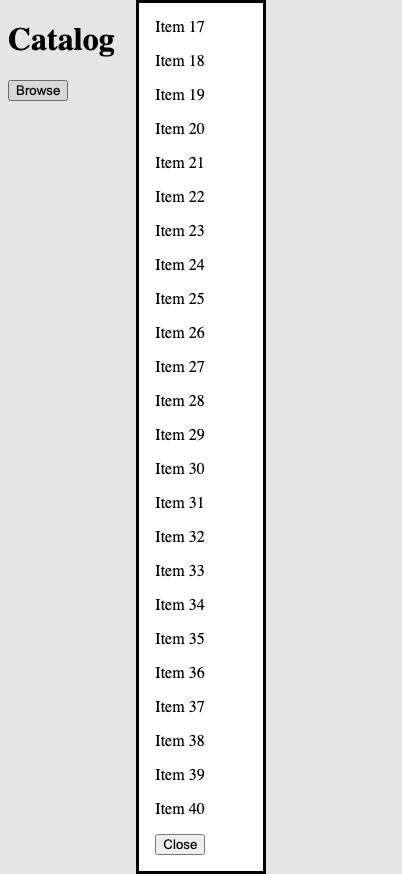
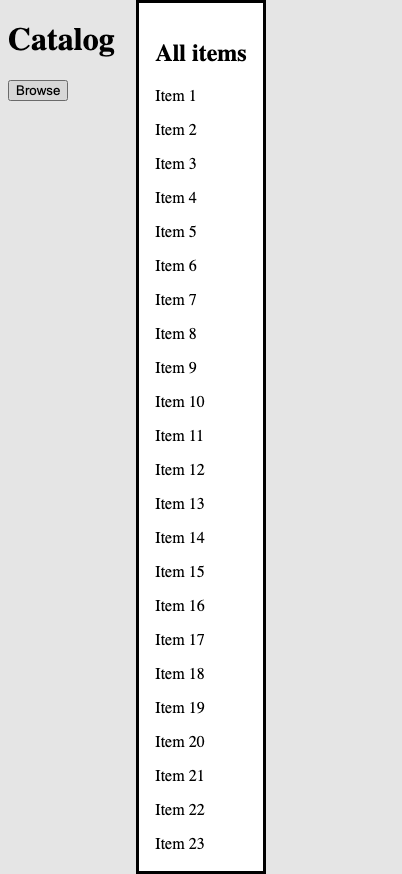
native: the web sheet is a modal panel on the overlay layer, with no load-time start; web rungs y1 and y4 stopped on dismissal
A modal <dialog> opens only through showModal(), which a server-rendered page can call only from an attach behaviour
started at load (onIdle). Through @markless/ui's barrel that cost every page importing the package about 31 KB gzip at
load (docs /concepts/state, perf-guards G16) and woke unrelated mounts. The web sheet now uses the mechanism modal and
drawer open from state with: a <div overlay> backdrop whose hidden follows open, holding a role="dialog" aria-modal panel
styled like the browser's dialog under @layer markless. Load cost on the same page: none (119 files, -18 B, local build).

Stopped on the web, as expected failures that turn red once they pass (expected.json webStopped): a page that opens the
sheet from its own state does not start the overlay runtime the sheet's linked module needs, so Escape and an outside
press never report dismiss and the page behind is not made inert (y1, y4). y2 and y3 pass on the web; phones unchanged.
native-contract.md records why, and a proposal for the owner: start a behaviour when its inputs change.

Changed region(s): [[0.3881, 0.1854, 0.5075, 0.9886], [0.3881, 0.0, 0.6269, 0.1545]]

diff --git a/packages/headless/components/src/native/native-conformance.browser.ts b/packages/headless/components/src/native/native-conformance.browser.ts
@@ -22,17 +22,18 @@ runMultiEmbedConformance({
 
 for (const mode of ['ssr', 'csr'] as const) {
 	describe(`native.sheet multi-embed (${mode})`, () => {
-		test("one embed's opener shows its own dialog in the top layer and leaves the other's closed", async () => {
+		test("one embed's opener shows its own sheet, modal, and leaves the other's hidden; Escape closes it through onChange", async () => {
 			if (mode === 'ssr') await renderSSRIslands([MultiEmbed, MultiEmbed]);
 			else await renderCsrIslands([MultiEmbed, MultiEmbed]);
-			const dialogs = Array.from(document.querySelectorAll('dialog'));
-			expect(dialogs).toHaveLength(2);
+			const sheets = Array.from(document.querySelectorAll<HTMLElement>('[role="dialog"]'));
+			expect(sheets).toHaveLength(2);
 			await userEvent.click(document.querySelectorAll<HTMLElement>('[data-testid="opener"]')[0]!);
-			await expect.poll(() => dialogs[0]!.matches(':modal')).toBe(true);
-			expect(dialogs[1]!.open).toBe(false);
+			await expect.poll(() => sheets[0]!.checkVisibility()).toBe(true);
+			expect(sheets[0]!.getAttribute('aria-modal')).toBe('true');
+			expect(sheets[1]!.checkVisibility()).toBe(false);
 
 			await userEvent.keyboard('{Escape}');
-			await expect.poll(() => dialogs[0]!.open).toBe(false);
+			await expect.poll(() => sheets[0]!.checkVisibility()).toBe(false);
 			const openers = document.querySelectorAll<HTMLElement>('[data-testid="opener"]');
 			await expect.poll(() => openers[0]!.getAttribute('aria-expanded')).toBe('false');
 		});

diff --git a/packages/serializer/src/native-view.ts b/packages/serializer/src/native-view.ts
@@ -130,7 +130,7 @@ export type NativeNode = NativePlace &
 				/**
 				 * The platform's own sheet (`<native.sheet>`): its content is the nodes whose parent is this id, built at mount
 				 * and kept; the host presents them in its system sheet while `open` is truthy (iOS `UISheetPresentationController`,
-				 * Android Material `BottomSheetDialog`, web a `<dialog>`).
+				 * Android Material `BottomSheetDialog`, web a modal panel on the overlay layer).
 				 */
 				readonly kind: 'sheet';
 				readonly id: string;

diff --git a/packages/mobile/test/ladder-web.test.ts b/packages/mobile/test/ladder-web.test.ts
@@ -125,8 +125,8 @@ describe.each(rungFolders())('%s', (folder) => {
 		for (const cleanup of cleanups.splice(0).reverse()) await cleanup();
 	}, 60_000);
 
-	test(
-		`${rung.name}: the web build shows every step's expected texts`,
+	(rung.webStopped ? test.fails : test)(
+		`${rung.name}: the web build shows every step's expected texts${rung.webStopped ? ` (stopped: ${rung.webStopped})` : ''}`,
 		{ timeout: 60_000 },
 		async () => {
 			const context = await browser.newContext();

diff --git a/packages/headless/components/src/native/sheet-types.ts b/packages/headless/components/src/native/sheet-types.ts
@@ -1,7 +1,7 @@
 import type { Children } from '@markless/core';
 
 /**
- * The platform's own sheet: iOS's system sheet, Android's Material bottom sheet, the browser's modal `<dialog>`. The
+ * The platform's own sheet: iOS's system sheet, Android's Material bottom sheet, on the web a modal panel in the page's overlay layer. The
  * platform draws the frame, its motion and its dimming; the markup between the tags is the content, styled by you.
  */
 export type SheetProps = {

diff --git a/packages/mobile/proofs/ladder.ts b/packages/mobile/proofs/ladder.ts
@@ -48,6 +48,8 @@ export type LadderRung = {
 	readonly route?: string;
 	/** The path the app opens at; `/` when absent. */
 	readonly start?: string;
+	/** Why the web build cannot pass this rung yet; its web check is then expected to fail, and turns red once it passes. */
+	readonly webStopped?: string;
 	readonly steps: readonly LadderStep[];
 };
 

diff --git a/docs/goals/native-targets-api/native-contract.md b/docs/goals/native-targets-api/native-contract.md
@@ -9,7 +9,7 @@ draft. Name: the planner's ruling from the naming test (`cw/device-api-ab`, `nam
 | You want | Write | Who draws the frame | Same on every platform? |
 |---|---|---|---|
 | Your own control: your frame, your motion, your look | `modal`, `drawer` from `@markless/ui`, or a plain `<dialog>` | You (the headless family's markup and your CSS) | Yes |
-| The platform's own sheet | `<native.sheet>` from `@markless/ui` | The platform: iOS `UISheetPresentationController`, Android Material `BottomSheetDialog`, web a modal `<dialog>` | No: each platform's real sheet |
+| The platform's own sheet | `<native.sheet>` from `@markless/ui` | The platform: iOS `UISheetPresentationController`, Android Material `BottomSheetDialog`, web a modal panel on the page's overlay layer | No: each platform's real sheet |
 
 One sentence for an author: **use `drawer` when the sheet must look and move the way your design says on every platform;
 use `native.sheet` when it should be the sheet people already know on their phone, with the platform's drag, heights,
@@ -51,11 +51,11 @@ Kept to what both phones have. Each must be fixed at build time in this draft (s
 
 | Option | Default | Meaning | iOS | Android | Web |
 |---|---|---|---|---|---|
-| `open` | `false` | Shows the sheet while true | present / dismiss | `show()` / `dismiss()` | `@if (open)` around a `<dialog>` opened with `showModal()` (or `show()`) |
-| `onChange` | none | The platform closed it | `presentationControllerDidDismiss` | `setOnCancelListener` | the dialog's `close` event, unless the page closed it |
+| `open` | `false` | Shows the sheet while true | present / dismiss | `show()` / `dismiss()` | the backdrop's `hidden` follows it |
+| `onChange` | none | The platform closed it | `presentationControllerDidDismiss` | `setOnCancelListener` | the overlay's `dismiss` (Escape, a press outside); stopped, see Rungs |
 | `snapPoints` | `[1]` | Resting heights, as fractions of the screen's height: one value, or two with the larger `1` | detents: `1` is `.large()`, `0.5` is `.medium()`, any other a custom detent | `1` alone: expanded, skip collapsed; `[x, 1]`: `halfExpandedRatio = x`, starts half expanded | no meaning: a browser dialog has no resting heights; it is as tall as its content, up to the viewport |
-| `dismissible` | `true` | The person can close it the platform's way | `isModalInPresentation = !dismissible` | `setCancelable(dismissible)` (back, outside tap, swipe) | `closedby="any"`, or `closedby="none"` with Escape's `cancel` prevented |
-| `modal` | `true` | The page behind is dimmed and cannot be reached | `largestUndimmedDetentIdentifier` unset; when `false`, set to the largest detent | `BottomSheetDialog` when true; a standard bottom sheet in the page when false (not built yet, refused on phones) | `showModal()`; `show()` when false |
+| `dismissible` | `true` | The person can close it the platform's way | `isModalInPresentation = !dismissible` | `setCancelable(dismissible)` (back, outside tap, swipe) | `dismiss` is ignored when false |
+| `modal` | `true` | The page behind is dimmed and cannot be reached | `largestUndimmedDetentIdentifier` unset; when `false`, set to the largest detent | `BottomSheetDialog` when true; a standard bottom sheet in the page when false (not built yet, refused on phones) | `aria-modal="true"`, which the overlay layer reads to make the page inert |
 
 `snapPoints` and `modal` are `drawer`'s words for the same ideas (drawer measures fractions of its own size; a system
 sheet's are of the screen, because that is what both platforms take). `dismissible` has no headless counterpart: `modal`'s
@@ -69,7 +69,7 @@ height (with `fitToContents` off); an iOS custom detent below full has no Androi
 
 | | iOS (UIKit) | Android (Views) | Web |
 |---|---|---|---|
-| What is presented | A `UIViewController` holding the content's views in a `UIScrollView`, presented with `.pageSheet` | `com.google.android.material.bottomsheet.BottomSheetDialog` holding the content's views in a `NestedScrollView` | `<dialog>` in the top layer |
+| What is presented | A `UIViewController` holding the content's views in a `UIScrollView`, presented with `.pageSheet` | `com.google.android.material.bottomsheet.BottomSheetDialog` holding the content's views in a `NestedScrollView` | a `role="dialog"` `aria-modal` panel inside a `<div overlay>` backdrop, styled like the browser's dialog under `@layer markless` |
 | Grabber / drag handle | `prefersGrabberVisible = true` when there are two heights | the Material 3 drag handle view when there are two heights | none |
 | Drag between heights, swipe to close | the system's | `BottomSheetBehavior`'s | none |
 | Back | no back for a sheet on iOS (VoiceOver's escape gesture is the system's close request) | the system back gesture or button (predictive back from Material) | Escape, and Android Chrome's back through the dialog's close watcher |
@@ -121,7 +121,26 @@ established part names, and `sheet` under a `native` namespace is a planner ruli
 - **Styling content inside the sheet through Dragon**: Dragon lays out one page box tree; the sheet's content is a second
   root, the same open question as `<dialog>` on `cw/native-ui`.
 
+## Why the web is not a `<dialog>`
+
+A modal `<dialog>` opens only through `showModal()`, a call. Markless runs calls on an element only from an `attach`
+behaviour, and on a server-rendered page a behaviour starts only after an event on or inside its element, `onVisible` or
+`onIdle`. The first version used `onIdle`; because `@markless/ui`'s barrel links every family into a page that imports
+it, that cost every such page about 31 KB gzip of runtime at load (docs `/concepts/state`: 124 files and 2,759,153 B
+against 119 and 2,728,165 B without it, local builds; perf-guards G16 on CI) and woke unrelated mounts (the slider's
+screen-reader lane). The web sheet therefore uses the mechanism `modal` and `drawer` open from state with: a `<div
+overlay>` backdrop whose `hidden` follows `open`, holding a `role="dialog"` `aria-modal` panel styled like the browser's
+dialog. Measured load cost on the same page: 119 files, 2,728,147 B (none).
+
 ## Rungs (2026-11-17)
+
+**Web stopped (Y1, Y4).** A page that opens `<native.sheet>` from its own state does not start the overlay runtime the
+sheet's module needs: the overlay mark is in the linked `@markless/ui` module's demand map, the page's click runs on its
+lean path, so the overlay never enlists. The sheet opens and closes from state (Y2, Y3 pass), but Escape and a press
+outside never report `dismiss` and the page behind is not made inert. `modal` and `drawer` do not hit this because their
+own trigger part opens them. The rungs carry `webStopped` and their web check runs as an expected failure that turns red
+once it passes. Fix: the page's action whose write reaches a linked module's overlay `hidden` must demand the overlay
+runtime (compiler, runtime demand map and linking); not done here.
 
 Columns as in `contract.md` section 5: **Web** is `packages/mobile/test/ladder-web.test.ts` (a real router app in
 Chromium; the web's "swipe" and "back" are Escape, its "pull up" does nothing because a browser dialog has no resting
@@ -133,10 +152,10 @@ one-off Playwright script driving the same steps, not by the test).
 
 | Rung | What | Web | Reference | iOS | Android |
 |---|---|---|---|---|---|
-| Y1 `y1-sheet-open-close` | open from a button; close by swipe, by back, and by the page's own button; a counter of platform closes on the page | pass | pass | **pass** | **pass** |
+| Y1 `y1-sheet-open-close` | open from a button; close by swipe, by back, and by the page's own button; a counter of platform closes on the page | **stopped** (below) | pass | **pass** | **pass** |
 | Y2 `y2-sheet-pick` | a list and a text input inside; the pick lands on the page; keyboard up (`keepKeyboard`) while typing | pass | pass | **pass** | **pass** |
 | Y3 `y3-sheet-heights` | `snapPoints={[0.5, 1]}`: opens at half, pulled to full, 70 items scrolled to the last | pass | pass | **pass** | **pass** |
-| Y4 `y4-sheet-beside-drawer` | the same page with the headless `drawer` | pass | **refused by name** (`<drawer.root>, a component from another module`) | not run | not run |
+| Y4 `y4-sheet-beside-drawer` | the same page with the headless `drawer` | **stopped** (below) | **refused by name** (`<drawer.root>, a component from another module`) | not run | not run |
 | Y5 confirmation | report only, below | | | | |
 
 What each rung needed and what is real:
@@ -153,8 +172,8 @@ What each rung needed and what is real:
   drag handle. The pull-up gesture ends at 20% of the screen: past full height iOS hands the drag to the content's
   scroll (measured). The scroll step proves scrolling only with content taller than full height (40 items fit on the
   Pixel 7, so the rung has 70).
-- **Y4.** The page builds and runs on the web (both the drawer and the native sheet open and close; the drawer's frame is
-  the author's CSS, the sheet's is the browser's: `screenshots/web/01-tap-after.png` and `03-tap-after.png`). On phones
+- **Y4.** On the web both open (the drawer's frame is the author's CSS, the sheet's the browser's dialog look:
+  `screenshots/web/01-tap-after.png` and `03-tap-after.png`); closing the native sheet by Escape is the stopped step. On phones
   the compiler refuses it because the headless `drawer` does not build for phones yet (`cw/native-ui`, u4c: its drag is
   pointer handlers, not data). This rung is a failure on phones, not a pass; it turns green when `drawer` lowers.
   The phone side of the pair is Y1's sheet screenshots.
@@ -215,8 +234,32 @@ HTML (`<input type="date">` shows the native picker on phones).
 
 ## Found on the way
 
-- An `attach` factory argument written as an expression (`attach={presentDialog(open === true)}`) reaches the behaviour
-  as `undefined`, with no build error; plain prop reads work. Not fixed here (compiler, behaviour inputs).
-- A child component may not render live `{children}` inside an `@if` it controls (`MARKLESS_PROJECTION_LIVE_IN_BRANCH`),
-  so the web sheet keeps its `<dialog>` in the page and opens it from an `attach` behaviour that follows `open`; on a
-  server-rendered page that behaviour starts at `onIdle`, so a press before the page is idle opens the sheet at idle.
+- **Fixed here, `@markless/web`:** a client-rendered `attach` whose input reads state ran once with `undefined` and never
+  again (`attach-state-input.test.ts`); a page-wide `onIdle` hook started every client mount at idle, including mounts with
+  no idle record (`on-idle-many.test.ts`).
+- An `attach` factory argument written as an expression (`presentDialog(open === true)`) reaches the behaviour as
+  `undefined` on a server-rendered page, with no build error. Not fixed.
+- A child component may not render live `{children}` inside an `@if` it controls (`MARKLESS_PROJECTION_LIVE_IN_BRANCH`).
+
+## Proposal (owner): a behaviour starts when its inputs change
+
+**What changes.** Today a server-rendered `attach` starts only on an event on or inside its element, `onVisible` or
+`onIdle` (spec `04-events-symbols-behaviors.md`, the list after "On a server-rendered host the behavior symbol is imported
+only when one of these triggers activates it"). Add one trigger: "a write to state one of its inputs reads". The line
+"When behavior inputs change, v1 cleans up the existing behavior and runs it again" would then hold for a behaviour that
+has not started yet.
+
+**What it fixes.** Any element whose imperative state follows page state from a server-rendered page, with no load cost:
+a `<dialog>` opened by `showModal()` (so `native.sheet` on the web could be the browser's real top-layer dialog), video
+`play()`, a chart's redraw. Today each needs `onIdle` (a runtime at load) or an event inside the element.
+
+**What it costs.** The behaviour's symbol and its runtime load on the first write that reaches its inputs, a press-time
+cost, not a load-time one. The compiler already routes such a write away from the scalar lean path (runtime demand map,
+behaviour `inputGraphReads`), but on the page tried here the press was handled before `resume-behaviors.ts` was
+constructed, so the subscription that would start it was never made: the runtime that handles that press must build the
+behaviour subscriptions (or the demand map must route the press to the full runtime). Size: one more condition in the demand
+map and the start path; the behaviour runtime module (`web/resume-behaviors`) on the press.
+
+**Evidence.** `packages/vitest-browser` server-rendered test (not committed): flipping state from a button outside the
+element left a state-reading `attach` unstarted; making `resume-behaviors.ts` start an inactive host on input change was
+not enough, because neither `resume-behaviors.ts` nor `event-only-resume.ts` ran for that press (instrumented).
